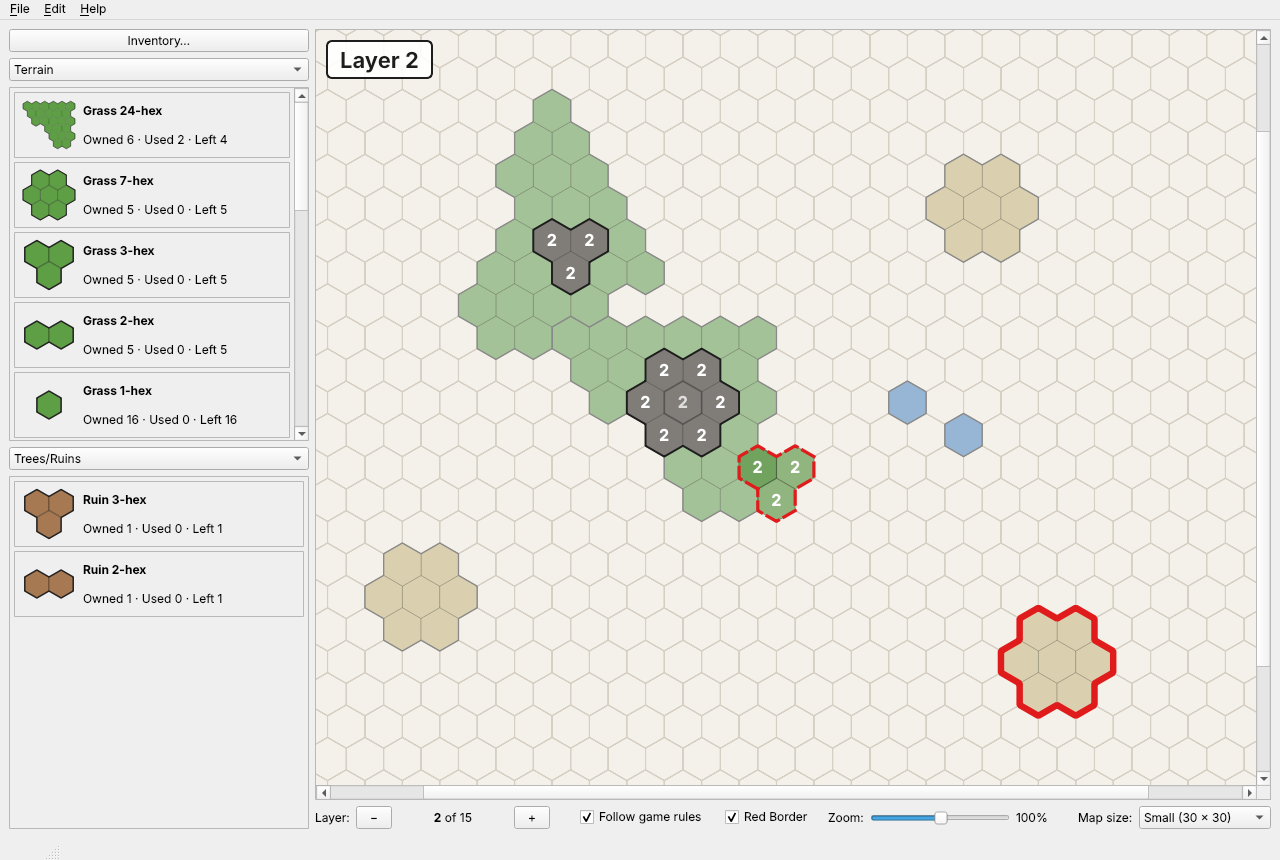
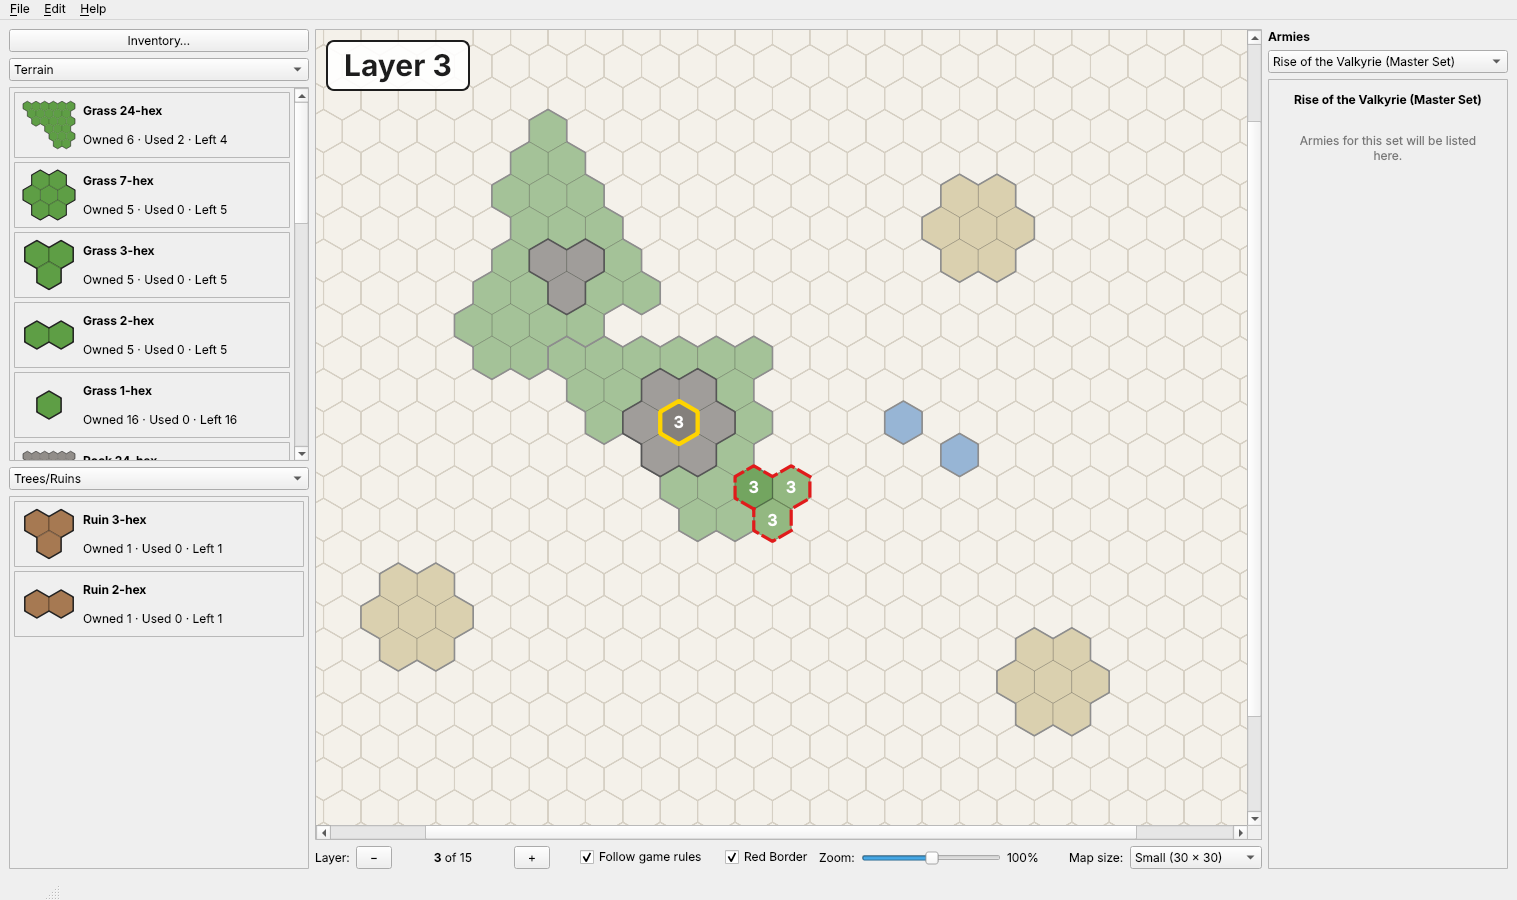
Graduated white wash, red border on current layer only, armies panel, bigger layer box
Claude-Session: https://claude.ai/code/session_01FLC4PzZTxdDK1EJe8NPFEu

diff --git a/heroscape_builder/gui/map_view.py b/heroscape_builder/gui/map_view.py
@@ -21,8 +21,11 @@ GRID_LINE = QColor("#d6d0c4")
 OVER_LIMIT = QColor("#e01b1b")
 SELECTED = QColor("#ffd400")
 GHOST_OK = QColor("#1f9d3a")
-WHITE_WASH = QColor("#ffffff")  # tiles below the current layer are washed towards white
-WHITE_WASH_AMOUNT = 0.5
+# Tiles below the current layer are washed towards white: the layer just below a little,
+# and each layer further down a little more, up to a limit so the colour still shows.
+WHITE_WASH = QColor("#ffffff")
+WHITE_WASH_STEP = 0.25
+WHITE_WASH_MAX = 0.6
 
 # Scene units are scaled by this at 100% zoom, so a hex is about 22 pixels from centre to corner.
 VIEW_SCALE = 1.08
@@ -46,6 +49,7 @@ class TileItem(QGraphicsItem):
         self.selected = False
         self.blocked = False
         self.state = ACTIVE
+        self.wash = 0.0  # how far the fill is washed towards white, 0 to 1
         self.path = outline_path(cells)
         self.polygons = [hex_polygon(q, r) for q, r in cells]
         self.centres = [QPointF(*hex_to_pixel(q, r, HEX_RADIUS)) for q, r in cells]
@@ -57,8 +61,8 @@ class TileItem(QGraphicsItem):
     def paint(self, painter, option, widget=None):
         painter.setRenderHint(QPainter.Antialiasing)
         fill = terrain_colour(self.piece.terrain, self.layer)
-        if self.state == BELOW:
-            fill = _blend(fill, WHITE_WASH, WHITE_WASH_AMOUNT)
+        if self.wash:
+            fill = _blend(fill, WHITE_WASH, self.wash)
         if self.ghost:
             fill.setAlpha(150)
         painter.setPen(QPen(QColor(0, 0, 0, 50), 0.8))
@@ -71,7 +75,8 @@ class TileItem(QGraphicsItem):
         elif self.over_limit:
             outline = QPen(OVER_LIMIT, 6)
         elif self.state == BELOW:
-            outline = QPen(QColor("#8a8a8a"), 1.2)
+            # Edges fade with the wash, so the layer just below keeps clear outlines.
+            outline = QPen(_blend(QColor("#1d1d1d"), WHITE_WASH, self.wash), 1.5)
         else:
             outline = QPen(QColor("#1d1d1d"), 1.8)
         painter.setPen(outline)
@@ -127,7 +132,7 @@ class MapView(QGraphicsView):
         self.layer_badge.setAlignment(Qt.AlignCenter)
         self.layer_badge.setStyleSheet(
             "QLabel { background: rgba(255, 255, 255, 230); color: #1d1d1d; border: 2px solid #1d1d1d;"
-            " border-radius: 6px; padding: 4px 12px; font-size: 22px; font-weight: bold; }"
+            " border-radius: 8px; padding: 5px 16px; font-size: 30px; font-weight: bold; }"
         )
         self._update_badge()
 
@@ -227,13 +232,15 @@ class MapView(QGraphicsView):
         moving = self._moving_uids()
         for uid, tile in self.model.tiles.items():
             item = TileItem(self.model.piece(tile), self.model.cells_of(tile), tile.layer)
-            item.over_limit = uid in over
+            # Overages only show on the layer being worked on.
+            item.over_limit = uid in over and tile.layer == self.active_layer
             item.selected = uid in self.selected
             if tile.layer > self.active_layer:
                 item.state = ABOVE
                 item.setOpacity(0.25)
             elif tile.layer < self.active_layer:
                 item.state = BELOW
+                item.wash = min(WHITE_WASH_STEP * (self.active_layer - tile.layer), WHITE_WASH_MAX)
             if uid in moving:
                 item.setVisible(False)
             scene.addItem(item)

diff --git a/heroscape_builder/gui/main_window.py b/heroscape_builder/gui/main_window.py
@@ -26,6 +26,7 @@ from ..history import UNDO_LIMIT, History
 from ..inventory import Inventory
 from ..model import MAX_LAYER, MIN_LAYER, MapModel
 from ..pieces import load_pieces, load_sets
+from .armies import ArmyPanel
 from .inventory_dialog import InventoryDialog
 from .map_view import MAX_ZOOM, MIN_ZOOM, MapView
 from .palette import Palette
@@ -120,14 +121,17 @@ class MainWindow(QMainWindow):
         right.addWidget(self.map_view, 1)
         right.addLayout(bottom)
 
+        self.armies = ArmyPanel(self.sets)
+
         central = QWidget()
         layout = QHBoxLayout(central)
         layout.addLayout(left)
         layout.addLayout(right, 1)
+        layout.addWidget(self.armies)
         self.setCentralWidget(central)
         self._build_menus()
 
-        self.resize(1280, 860)
+        self.resize(1440, 900)
         self.new_map(DEFAULT_SIZE, ask=False)
 
     # --- menus --------------------------------------------------------
@@ -398,8 +402,10 @@ class MainWindow(QMainWindow):
             "<b>Move:</b> drag a tile (or the selected tiles) on the current layer.<br>"
             "<b>Remove:</b> select tiles and press Delete, or drag them back to the piece list.<br>"
             "<b>Layers:</b> + goes up a layer, - goes down. New tiles go on the current layer. Tiles on "
-            "lower layers get a white wash, and tiles on higher layers fade. Layer numbers show only on the "
+            "lower layers get a white wash that gets stronger the further down they are, and tiles on higher "
+            "layers fade. Layer numbers show only on the "
             "current layer, which is also shown in the top-left corner of the map.<br>"
-            "<b>Red Border:</b> turns the red outline on tiles beyond what you own on or off.<br>"
+            "<b>Red Border:</b> turns the red outline on tiles beyond what you own on or off. It only shows "
+            "on the current layer.<br>"
             "<b>Undo / redo:</b> Ctrl+Z / Ctrl+Y (last 20 actions).",
         )

diff --git a/heroscape_builder/gui/armies.py b/heroscape_builder/gui/armies.py
@@ -1,0 +1,47 @@
+"""The armies panel on the right of the map, with a drop-down to pick a set."""
+
+from PySide6.QtCore import Qt
+from PySide6.QtWidgets import QComboBox, QLabel, QScrollArea, QVBoxLayout, QWidget
+
+
+class ArmyPanel(QWidget):
+    def __init__(self, sets, parent=None):
+        super().__init__(parent)
+        self.setMinimumWidth(240)
+        self.setMaximumWidth(300)
+        self.choice = QComboBox()
+        self.choice.setFocusPolicy(Qt.NoFocus)
+        for game_set in sets:
+            if game_set.available:
+                self.choice.addItem(game_set.name, game_set.id)
+
+        content = QWidget()
+        content_layout = QVBoxLayout(content)
+        content_layout.setContentsMargins(4, 4, 4, 4)
+        self.title = QLabel()
+        self.title.setAlignment(Qt.AlignCenter)
+        self.title.setWordWrap(True)
+        self.title.setStyleSheet("font-weight: bold; padding: 8px;")
+        self.placeholder = QLabel("Armies for this set will be listed here.")
+        self.placeholder.setAlignment(Qt.AlignCenter)
+        self.placeholder.setWordWrap(True)
+        self.placeholder.setStyleSheet("color: #777; padding: 12px;")
+        content_layout.addWidget(self.title)
+        content_layout.addWidget(self.placeholder)
+        content_layout.addStretch(1)
+
+        scroll = QScrollArea()
+        scroll.setWidgetResizable(True)
+        scroll.setHorizontalScrollBarPolicy(Qt.ScrollBarAlwaysOff)
+        scroll.setWidget(content)
+
+        layout = QVBoxLayout(self)
+        layout.setContentsMargins(0, 0, 0, 0)
+        layout.addWidget(QLabel("<b>Armies</b>"))
+        layout.addWidget(self.choice)
+        layout.addWidget(scroll, 1)
+        self.choice.currentIndexChanged.connect(self._show_set)
+        self._show_set()
+
+    def _show_set(self, _index=None):
+        self.title.setText(self.choice.currentText())

diff --git a/tests/test_gui.py b/tests/test_gui.py
@@ -410,3 +410,35 @@ def test_red_border_checkbox(window):
     assert "-1" in w.palette.rows["rotv.sand.7"].counts_label.text()
     assert w.settings.value("red_border") == "false"
     w.red_border_box.setChecked(True)
+
+
+def test_white_wash_grows_with_depth(window):
+    w = window
+    w.rules_box.setChecked(False)
+    for layer, col in ((1, 4), (2, 8), (3, 12)):
+        w.set_layer(layer)
+        drag_from_palette(w, "rotv.grass.1", col, 4)
+    w.set_layer(3)
+    by_layer = {item.layer: item for item in w.map_view.tile_items.values()}
+    assert by_layer[3].wash == 0
+    assert 0 < by_layer[2].wash < by_layer[1].wash
+    assert abs(by_layer[1].wash - 2 * by_layer[2].wash) < 1e-9  # the layer just below is washed half as much
+    w.set_layer(2)
+    by_layer = {item.layer: item for item in w.map_view.tile_items.values()}
+    assert by_layer[1].wash > 0
+
+
+def test_red_border_only_on_current_layer(window):
+    w = window
+    for col in (4, 10, 16):
+        drag_from_palette(w, "rotv.sand.7", col, 4)
+    assert any(item.over_limit for item in w.map_view.tile_items.values())
+    w.step_layer(1)
+    assert not any(item.over_limit for item in w.map_view.tile_items.values())
+
+
+def test_armies_panel_lists_base_set(window):
+    armies = window.armies
+    assert armies.isVisible()
+    assert armies.choice.count() == 1
+    assert "Rise of the Valkyrie" in armies.title.text()

diff --git a/README.md b/README.md
@@ -53,9 +53,14 @@ After the first time, start it with `.venv/bin/python -m heroscape_builder` from
 | Inventory | The Inventory button above the piece list, or Ctrl+I |
 
 The current layer is shown in a box in the top-left corner of the map, and layer numbers
-only appear on tiles on the current layer. Tiles on layers below the one you're on get a white wash that dulls their colour, and tiles on
-layers above it are faded, so it's clear which layer you're working on. Tiles placed beyond
-what you own keep a thick red outline.
+only appear on tiles on the current layer. Tiles on layers below the one you're on get a white
+wash: the layer just below gets a light wash, and each layer further down gets a heavier one,
+so you can still see where the lower layers are. Tiles on layers above the current one are
+faded. Tiles placed beyond what you own get a thick red outline, shown only while you're on
+their layer.
+
+The Armies panel on the right of the map has a drop-down to choose a set. For now it shows the
+Rise of the Valkyrie title, and the armies will be listed there later.
 
 The map size drop-down under the map changes the size of the current map. File > New starts
 an empty map at that size. If tiles would end up off the edge, the size isn't changed.
